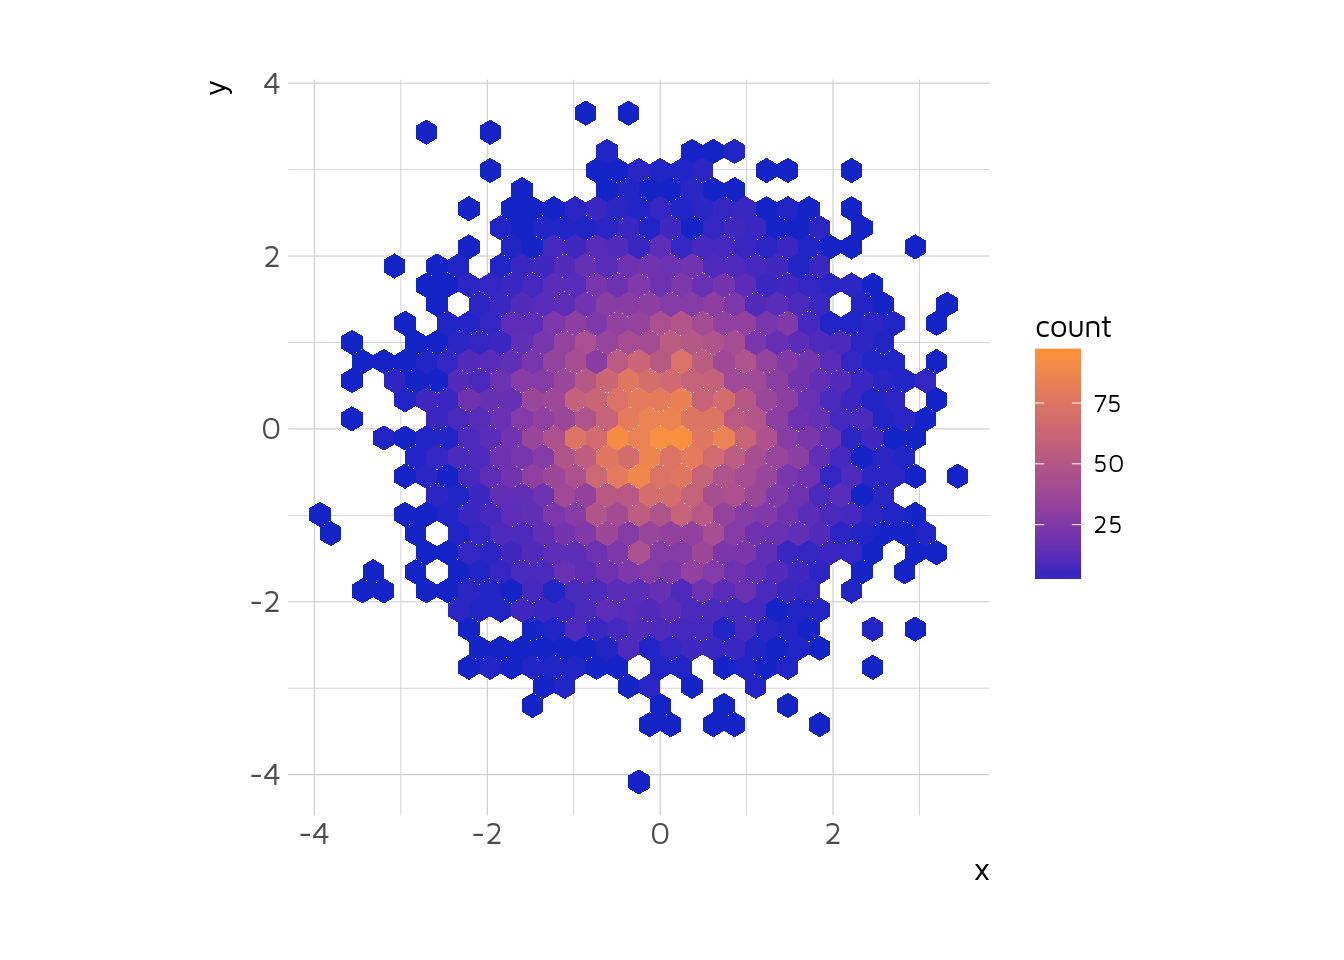
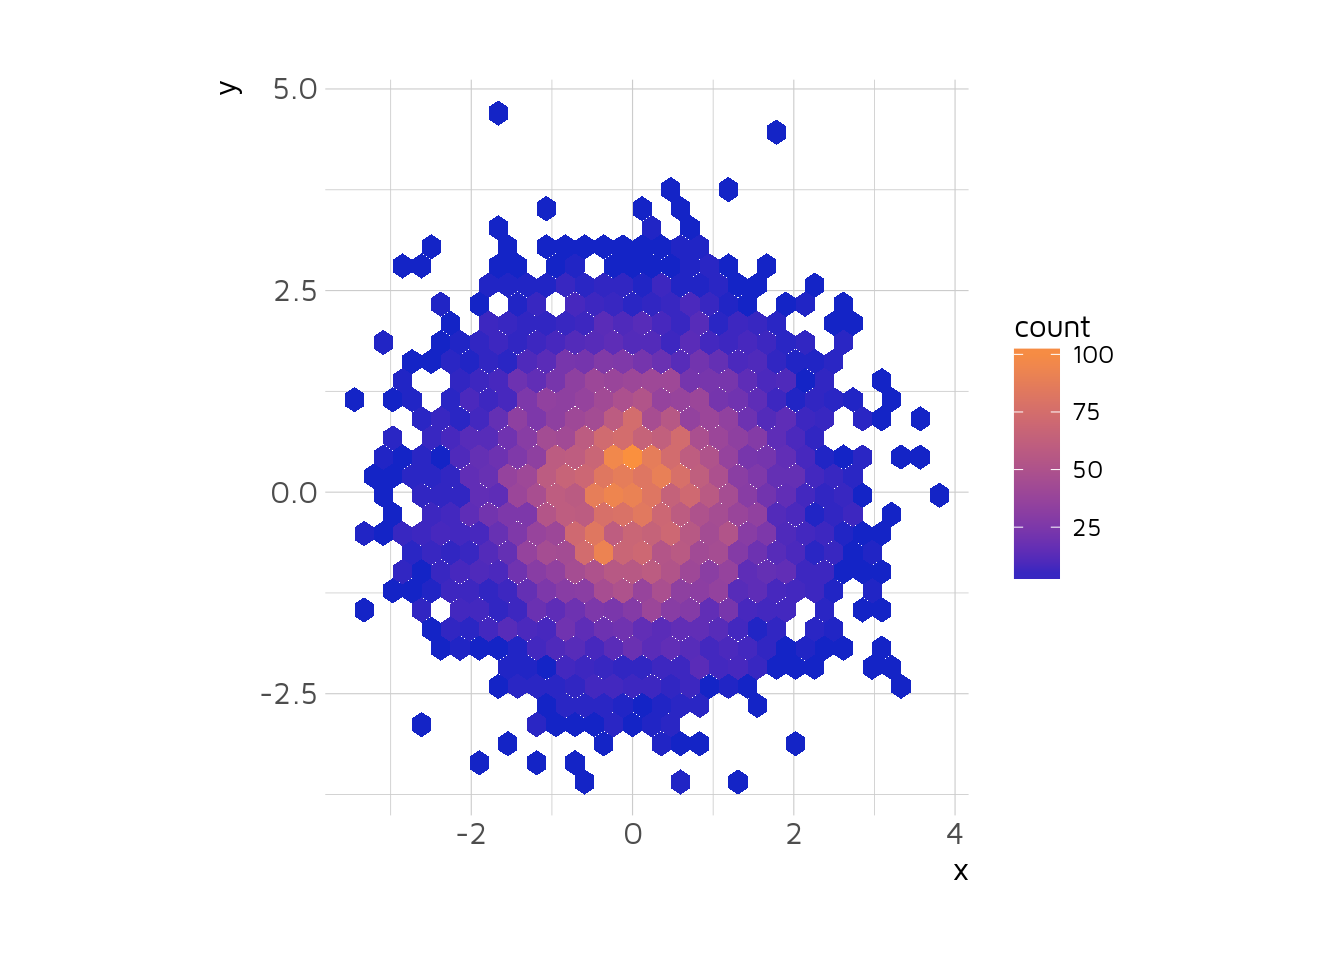
Update scales

diff --git a/README.md b/README.md
@@ -33,19 +33,27 @@ ggplot(mtcars, aes(mpg, wt)) +
   theme_ipsum_mp()
 ```
 
-<img src="README_files/figure-markdown_github-ascii_identifiers/unnamed-chunk-2-1.png" width="672" />
+<img src="README_files/figure-markdown_github/unnamed-chunk-2-1.png" width="672" />
 
-### Continous
+### Continous Palettes
 
-Scale was created starting from <span style="color:#FA903E">"\#FA903E"</span> mid <span style="color:#1424C6">"\#1424C6"</span> and finish <span style="color:#0099F9">"\#0099F9"</span> based on [kuler](https://color.adobe.com/create/color-wheel/?base=2&rule=Compound&selected=2&name=My%20Color%20Theme&mode=rgb&rgbvalues=0.07764705882352939,0.139242791599822,0.776470588235294,0.23058823529411765,0.2610750121227878,0.5764705882352941,0,0.6,0.9764705882352941,0.9794117647058823,0.5660503410702158,0.24485294117647058,0.776470588235294,0.2813068745571549,0.07764705882352939&swatchOrder=0,1,2,3,4) of compound colors with the center on Appsilon blue <span style="color:#0099F9">"\#0099F9"</span>.
+#### Appsilon viridis
+
+![](README_files/figure-markdown_github/unnamed-chunk-3-1.png)
+
+#### Appsilon cividis
+
+![](README_files/figure-markdown_github/unnamed-chunk-4-1.png)
+
+#### Appsilon plasma
+
+![](README_files/figure-markdown_github/unnamed-chunk-5-1.png)
 
 #### Plot examples
 
 Goal: check how viridis examples are represented using poropose continous scale.
 
-Ggplots are generated using `scale_*_gradient(low = "#1424C6", high = "#FA903E")`
-
-<img src="README_files/figure-markdown_github-ascii_identifiers/unnamed-chunk-3-1.png" width="672" /><img src="README_files/figure-markdown_github-ascii_identifiers/unnamed-chunk-3-2.png" width="672" /><img src="README_files/figure-markdown_github-ascii_identifiers/unnamed-chunk-3-3.png" width="672" /><img src="README_files/figure-markdown_github-ascii_identifiers/unnamed-chunk-3-4.png" width="672" />
+<img src="README_files/figure-markdown_github/unnamed-chunk-6-1.png" width="672" /><img src="README_files/figure-markdown_github/unnamed-chunk-6-2.png" width="672" /><img src="README_files/figure-markdown_github/unnamed-chunk-6-3.png" width="672" /><img src="README_files/figure-markdown_github/unnamed-chunk-6-4.png" width="672" /><img src="README_files/figure-markdown_github/unnamed-chunk-6-5.png" width="672" /><img src="README_files/figure-markdown_github/unnamed-chunk-6-6.png" width="672" />
 
     ## 
     ## Attaching package: 'maps'
@@ -54,7 +62,7 @@ Ggplots are generated using `scale_*_gradient(low = "#1424C6", high = "#FA903E")
     ## 
     ##     unemp
 
-<img src="README_files/figure-markdown_github-ascii_identifiers/unnamed-chunk-4-1.png" width="672" /><img src="README_files/figure-markdown_github-ascii_identifiers/unnamed-chunk-4-2.png" width="672" />
+<img src="README_files/figure-markdown_github/unnamed-chunk-7-1.png" width="672" /><img src="README_files/figure-markdown_github/unnamed-chunk-7-2.png" width="672" /><img src="README_files/figure-markdown_github/unnamed-chunk-7-3.png" width="672" />
 
 ### Categorical
 
